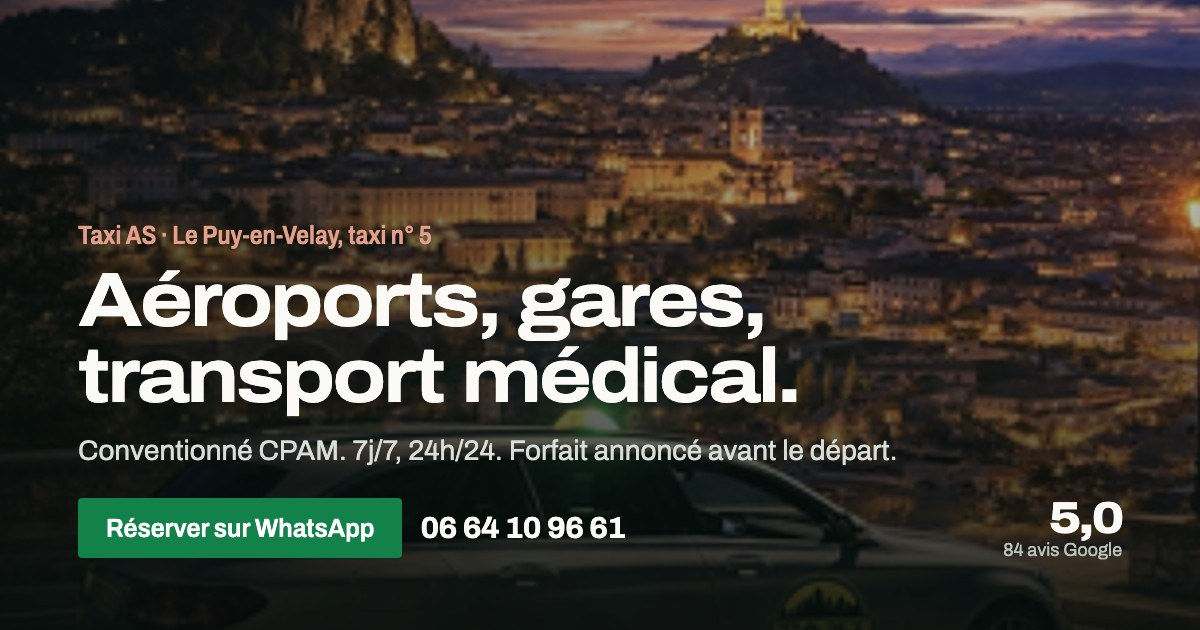
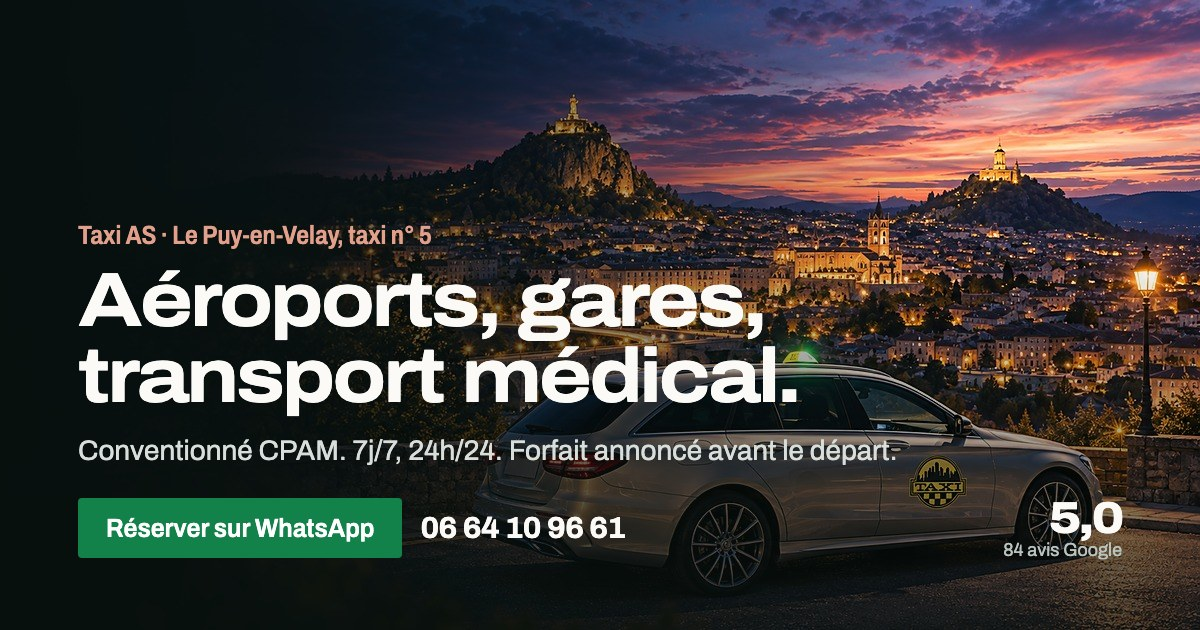
Hero pleine largeur et identité légale complète
- nouveau visuel fourni par le client (1672x941), servi en trois tailles
  via srcset : le hero occupe toute la largeur, le texte se pose sur la
  partie sombre à gauche, la voiture et les deux rochers restent visibles
- sous 58rem la photo passe en bandeau au-dessus du texte
- mentions légales complètes : Hamed Arbib, entrepreneur individuel,
  SIREN 493 529 523, SIRET 493 529 523 00026, TVA FR78493529523,
  APE 4932Z, immatriculé le 2 janvier 2007, siège rue de Chirel
- JSON-LD enrichi : legalName, vatID, taxID, foundingDate, founder
- le visuel étant une image de synthèse, les mentions légales le disent
  et le texte alternatif décrit la scène sans la présenter comme une photo
- image de partage refaite sur le nouveau visuel

diff --git a/index.html b/index.html
@@ -28,7 +28,7 @@
 <link rel="preconnect" href="https://fonts.googleapis.com">
 <link rel="preconnect" href="https://fonts.gstatic.com" crossorigin>
 <link href="https://fonts.googleapis.com/css2?family=Archivo:ital,wdth,wght@0,62..125,300..800;1,62..125,300..800&display=swap" rel="stylesheet">
-<link rel="preload" as="image" href="assets/hero-le-puy.jpg" imagesrcset="assets/hero-le-puy-960.jpg 960w, assets/hero-le-puy.jpg 1920w" imagesizes="100vw">
+<link rel="preload" as="image" href="assets/hero-le-puy-1440.jpg" imagesrcset="assets/hero-le-puy-960.jpg 900w, assets/hero-le-puy-1440.jpg 1440w, assets/hero-le-puy.jpg 2400w" imagesizes="100vw">
 <link rel="stylesheet" href="styles.css">
 </head>
 <body>
@@ -55,33 +55,37 @@
 
   <!-- ══ Hero ══ -->
   <section class="hero">
+    <img class="hero__photo"
+         src="assets/hero-le-puy-1440.jpg"
+         srcset="assets/hero-le-puy-960.jpg 900w, assets/hero-le-puy-1440.jpg 1440w, assets/hero-le-puy.jpg 2400w"
+         sizes="100vw"
+         width="2400" height="1351"
+         fetchpriority="high" decoding="async"
+         alt="Un taxi break blanc aux couleurs de Taxi AS stationné face au Puy-en-Velay illuminé au crépuscule, la statue Notre-Dame de France et la chapelle Saint-Michel d'Aiguilhe dominant la ville">
 
     <div class="hero__contenu">
-      <h1>Le taxi n°&nbsp;5 du<br>Puy-en-Velay.</h1>
-      <p class="hero__accroche">
-        Aéroports, gares, transport médical conventionné, longue distance.
-        Vous envoyez votre trajet sur WhatsApp, vous recevez le forfait et l'heure
-        de prise en charge.
-      </p>
-      <div class="hero__actions">
-        <a class="bouton bouton--whats bouton--grand" data-wa="Bonjour, je souhaite réserver un taxi au départ du Puy-en-Velay." href="https://wa.me/33664109661">
-          <svg class="ico-wa" viewBox="0 0 24 24" aria-hidden="true"><use href="#wa"/></svg>
-          Réserver sur WhatsApp
-        </a>
-        <a class="bouton bouton--clair bouton--grand" href="tel:+33664109661">Appeler le 06 64 10 96 61</a>
+      <div class="enveloppe">
+        <h1>Le taxi n°&nbsp;5 du<br>Puy-en-Velay.</h1>
+        <p class="hero__accroche">
+          Aéroports, gares, transport médical conventionné, longue distance.
+          Vous envoyez votre trajet sur WhatsApp, vous recevez le forfait et l'heure
+          de prise en charge.
+        </p>
+        <div class="hero__actions">
+          <a class="bouton bouton--whats bouton--grand" data-wa="Bonjour, je souhaite réserver un taxi au départ du Puy-en-Velay." href="https://wa.me/33664109661">
+            <svg class="ico-wa" viewBox="0 0 24 24" aria-hidden="true"><use href="#wa"/></svg>
+            Réserver sur WhatsApp
+          </a>
+          <a class="bouton bouton--clair bouton--grand" href="tel:+33664109661">Appeler le 06 64 10 96 61</a>
+        </div>
+        <ul class="preuves">
+          <li><strong>5,0</strong> sur 84 avis Google</li>
+          <li>Conventionné CPAM</li>
+          <li>7j/7, 24h/24</li>
+          <li>Station place du Breuil</li>
+        </ul>
       </div>
-      <ul class="preuves">
-        <li><strong>5,0</strong> sur 84 avis Google</li>
-        <li>Conventionné CPAM</li>
-        <li>7j/7, 24h/24</li>
-        <li>Place du Breuil, Le Puy-en-Velay</li>
-      </ul>
     </div>
-
-    <picture class="hero__photo">
-      <source media="(max-width: 46rem)" srcset="assets/hero-le-puy-960.jpg">
-      <img src="assets/hero-le-puy.jpg" alt="Le taxi de Taxi AS stationné face au Puy-en-Velay illuminé à la tombée de la nuit, avec le rocher Saint-Michel d'Aiguilhe en arrière-plan" width="1920" height="1396" fetchpriority="high" decoding="async">
-    </picture>
   </section>
 
   <!-- ══ Garanties ══ -->
@@ -388,14 +392,19 @@
   "@context": "https://schema.org",
   "@type": "TaxiService",
   "name": "Taxi AS",
+  "legalName": "Hamed Arbib",
   "alternateName": "Taxi Le Puy-en-Velay n°5",
   "description": "Taxi artisan n°5 du Puy-en-Velay, place du Breuil. Conventionné CPAM. Transferts aéroport et gare, transport médical, longue distance, taxi de nuit, 7j/7 24h/24.",
   "telephone": "+33664109661",
   "email": "astaxi.lepuy5@gmail.com",
   "url": "https://lucaszimmermann.github.io/as-taxi-43/",
   "priceRange": "€€",
-  "image": "https://lucaszimmermann.github.io/as-taxi-43/assets/hero-le-puy.jpg",
+  "image": "https://lucaszimmermann.github.io/as-taxi-43/assets/og.jpg",
   "paymentAccepted": "Carte bancaire, espèces, virement",
+  "vatID": "FR78493529523",
+  "taxID": "49352952300026",
+  "foundingDate": "2007-01-02",
+  "founder": { "@type": "Person", "name": "Hamed Arbib" },
   "address": {
     "@type": "PostalAddress",
     "streetAddress": "Place du Breuil",

diff --git a/styles.css b/styles.css
@@ -152,38 +152,43 @@ p:last-child { margin-bottom: 0; }
 @media (max-width: 62rem) { .bandeau__dispo { display: none; } .bandeau__grille { justify-content: space-between; } }
 @media (max-width: 34rem) { .bandeau__liens .bouton--whats { display: none; } }
 
-/* ── Hero : texte à gauche, photo qui déborde à droite ───── */
+/* ── Hero pleine largeur ─────────────────────────────────── */
 
 .hero {
+  position: relative;
+  isolation: isolate;
   background: var(--nuit);
   color: var(--craie);
   display: grid;
-  grid-template-columns: minmax(0, 1fr) minmax(0, 46%);
-  align-items: stretch;
-  gap: clamp(2rem, 4vw, 4.5rem);
-  padding-left: max(var(--marge), calc((100vw - var(--enveloppe)) / 2));
+  align-items: center;
+  min-height: clamp(32rem, 56vw, 45rem);
   overflow: hidden;
 }
-
-.hero__contenu { align-self: center; padding-block: clamp(3rem, 5.5vw, 4.75rem); }
-.hero__photo { position: relative; min-height: clamp(22rem, 46vw, 36rem); }
-.hero__photo img {
-  position: absolute; inset: 0;
+.hero__photo {
+  position: absolute; inset: 0; z-index: -2;
   width: 100%; height: 100%;
-  object-fit: cover; object-position: 50% 46%;
+  object-fit: cover; object-position: 62% 50%;
   display: block;
 }
-.hero__photo::after {
+.hero::after {
   content: '';
-  position: absolute; inset: 0;
-  background: linear-gradient(to right, var(--nuit) 0%, rgba(14,27,24,.35) 14%, transparent 34%);
+  position: absolute; inset: 0; z-index: -1;
+  background:
+    linear-gradient(100deg,
+      rgba(8,16,14,.95) 0%,
+      rgba(8,16,14,.91) 28%,
+      rgba(8,16,14,.72) 48%,
+      rgba(8,16,14,.30) 68%,
+      rgba(8,16,14,.12) 100%),
+    linear-gradient(to top, rgba(8,16,14,.62) 0%, transparent 38%);
 }
 
+.hero__contenu { padding-block: clamp(3.5rem, 7vw, 5.5rem); width: 100%; }
 .hero h1 { color: var(--craie); max-width: 13ch; }
 .hero__accroche {
   font-size: clamp(1.05rem, 1rem + .4vw, 1.2rem);
-  max-width: 42ch;
-  color: color-mix(in srgb, var(--craie) 82%, transparent);
+  max-width: 38ch;
+  color: color-mix(in srgb, var(--craie) 84%, transparent);
   margin-bottom: 2rem;
 }
 .hero__actions { display: flex; flex-wrap: wrap; gap: .8rem; margin-bottom: 2.3rem; }
@@ -195,31 +200,40 @@ p:last-child { margin-bottom: 0; }
   display: grid; grid-template-columns: repeat(2, minmax(0, 1fr));
   gap: .7rem 1.8rem;
   font-size: .92rem;
-  color: color-mix(in srgb, var(--craie) 80%, transparent);
-  max-width: 30rem;
+  color: color-mix(in srgb, var(--craie) 82%, transparent);
+  max-width: 26rem;
 }
 .preuves li { display: flex; align-items: baseline; gap: .45rem; }
-@media (max-width: 26rem) { .preuves { grid-template-columns: 1fr; gap: .5rem; } }
 .preuves strong {
   font-variation-settings: 'wdth' 110; font-weight: 700;
   font-size: 1.1rem; color: var(--craie); letter-spacing: -.02em;
 }
 .preuves li:first-child strong { color: var(--lave-clair); }
 
+/* Sous 58rem le texte ne tient plus sur la partie sombre : la photo
+   passe au-dessus, en bandeau, et le texte reprend le fond nuit. */
 @media (max-width: 58rem) {
   .hero {
-    grid-template-columns: 1fr;
-    padding: 0 0 clamp(2.5rem, 7vw, 3.5rem);
-    gap: clamp(1.8rem, 5vw, 2.5rem);
+    display: block;
+    min-height: 0;
+    padding-bottom: clamp(2.5rem, 7vw, 3.5rem);
   }
-  .hero__photo { order: -1; min-height: 0; aspect-ratio: 4 / 3; max-height: 58svh; }
-  .hero__contenu { padding-block: 0; }
-  .hero__photo::after {
-    background: linear-gradient(to bottom, transparent 55%, rgba(14,27,24,.55) 82%, var(--nuit) 100%);
+  .hero__photo {
+    position: static;
+    height: auto; aspect-ratio: 16 / 10;
+    max-height: 56svh;
+    object-position: 66% 50%;
   }
-  .hero__contenu { padding-inline: var(--marge); }
+  .hero::after {
+    inset: auto 0 0 0; height: 42%;
+    background: linear-gradient(to top, var(--nuit) 34%, transparent 100%);
+    pointer-events: none;
+  }
+  .hero__contenu { padding-block: clamp(1.8rem, 6vw, 2.5rem) 0; position: relative; z-index: 1; }
   .hero h1 { max-width: 16ch; }
+  .hero__accroche { max-width: none; }
 }
+@media (max-width: 26rem) { .preuves { grid-template-columns: 1fr; gap: .5rem; } }
 
 /* ── Garanties sous le hero ──────────────────────────────── */
 

diff --git a/mentions-legales.html b/mentions-legales.html
@@ -30,17 +30,19 @@
   <div class="enveloppe" style="max-width:48rem">
     <h1 style="font-size:clamp(2rem,1.4rem+2.4vw,3rem)">Mentions légales</h1>
 
-    <!-- À COMPLÉTER : SIRET, TVA et nom du gérant. Le reste est vérifié. -->
     <h2>Éditeur du site</h2>
     <p>
-      Taxi AS, entreprise individuelle de taxi.<br>
-      Stationnement : place du Breuil, 43000 Le Puy-en-Velay, France.<br>
-      SIREN : [numéro SIREN]. SIRET : [numéro SIRET]. Numéro de TVA intracommunautaire : [le cas échéant].<br>
+      Hamed Arbib, entrepreneur individuel exerçant sous l'enseigne <strong>Taxi AS</strong>.<br>
+      Siège social : 3 rue de Chirel, lotissement Coste Deferne, 43000 Le Puy-en-Velay, France.<br>
+      Stationnement : place du Breuil, 43000 Le Puy-en-Velay.<br>
+      SIREN : 493 529 523. SIRET du siège : 493 529 523 00026.<br>
+      TVA intracommunautaire : FR78 493 529 523.<br>
+      Code APE : 4932Z, transports de voyageurs par taxis. Entreprise immatriculée depuis le 2 janvier 2007.<br>
       Autorisation de stationnement (licence de taxi) n° 5, commune du Puy-en-Velay.<br>
       Taxi conventionné par l'Assurance maladie.<br>
       Téléphone : <a class="lien-texte" href="tel:+33664109661">06 64 10 96 61</a>.<br>
       Courriel : <a class="lien-texte" href="mailto:astaxi.lepuy5@gmail.com">astaxi.lepuy5@gmail.com</a>.<br>
-      Responsable de la publication : [nom du gérant].
+      Directeur de la publication : Hamed Arbib.
     </p>
 
     <h2>Hébergement</h2>
@@ -72,7 +74,8 @@
     <h2>Propriété intellectuelle</h2>
     <p>
       Les textes, la mise en page et les éléments graphiques de ce site sont la propriété de
-      Taxi AS. Toute reproduction sans autorisation est interdite.
+      Taxi AS. Toute reproduction sans autorisation est interdite. La photographie d'illustration
+      de la page d'accueil est une image de synthèse représentant un taxi devant Le Puy-en-Velay.
     </p>
 
     <p style="margin-top:2.5rem"><a class="lien-texte" href="index.html">Retour à l'accueil</a></p>

diff --git a/README.md b/README.md
@@ -43,41 +43,43 @@ Issues de l'affiche de l'entreprise et de la fiche Google :
 | Conventionnement | Conventionné CPAM |
 | Amplitude | 7j/7, 24h/24 |
 | Note Google | 5,0 sur 84 avis |
+| Exploitant | Hamed Arbib, entrepreneur individuel |
+| Siège social | 3 rue de Chirel, lotissement Coste Deferne, 43000 Le Puy-en-Velay |
+| SIREN | 493 529 523 |
+| SIRET du siège | 493 529 523 00026 |
+| TVA intracommunautaire | FR78 493 529 523 |
+| Code APE | 4932Z, transports de voyageurs par taxis |
+| Immatriculation | 2 janvier 2007 |
 | Prestations Google | limousines, assistance, taxi 7j/7, taxi de nuit, longue distance, transfert gare, transfert aéroport |
 
 ## Ce qu'il reste à compléter
 
-1. **SIREN / SIRET manquants** (`mentions-legales.html`, deux `[crochets]`).
-   Le document transmis était un bulletin de salaire de l'Hôtel Le Regina : le SIRET qui y
-   figurait est celui de l'hôtel, pas celui de l'entreprise de taxi. Rien n'en a été repris.
-   Le bon numéro se trouve sur un extrait Kbis, un avis de situation INSEE
-   (avis-situation-sirene.insee.fr) ou une facture de l'entreprise.
-2. **Nom du gérant** (`mentions-legales.html`, responsable de la publication).
-3. **URL canonique** : `https://lucaszimmermann.github.io/as-taxi-43/` apparaît dans
+1. **URL canonique** : `https://lucaszimmermann.github.io/as-taxi-43/` apparaît dans
    `index.html` (`canonical`, `og:url`, `og:image`, JSON-LD), `robots.txt` et `sitemap.xml`.
    À remplacer partout le jour où un domaine est acheté.
-4. **Réseaux sociaux** : l'affiche annonce Facebook, Snapchat et Instagram mais sans identifiant.
-   Fournir les trois URL pour les ajouter au pied de page et au JSON-LD (`sameAs`).
-5. **Distances et durées** du tableau des destinations : estimations, à confirmer par le chauffeur.
-6. **Modèle du véhicule** : la page dit « berline break » sans nommer la marque, l'affiche
-   montrant une Mercedes et les photos Google une Kia. À préciser si un seul véhicule circule.
+2. **Réseaux sociaux** : l'affiche annonce Facebook, Snapchat et Instagram mais sans
+   identifiant. Fournir les trois URL pour les ajouter au pied de page et au JSON-LD (`sameAs`).
+3. **Distances et durées** du tableau des destinations : estimations, à confirmer par le chauffeur.
+4. **Modèle du véhicule** : la page dit « berline break » sans nommer la marque. À préciser
+   si un seul véhicule circule.
 
 ## La photo du hero
 
-`assets/hero-le-puy.jpg` est un recadrage de l'affiche de l'entreprise : la partie photo
-seule, sans le texte ni le logo. La source ne fait que 616 px de large, elle a donc été
-agrandie puis ré-accentuée. Le rendu est bon à la taille où elle s'affiche, mais si le
-fichier d'origine existe (celui utilisé pour fabriquer l'affiche), le remplacer donnera un
-résultat plus net :
+`assets/hero-le-puy.jpg` et ses deux déclinaisons viennent du visuel fourni par le client
+(1672 × 941), recadré en pleine largeur derrière le texte. C'est une **image de synthèse**,
+pas une photographie du véhicule prise sur place : les mentions légales le précisent, et le
+texte alternatif décrit la scène sans la présenter comme un reportage.
 
-```bash
-# remplacer les deux tailles, mêmes noms de fichiers
-assets/hero-le-puy.jpg       # 1920 px de large
-assets/hero-le-puy-960.jpg   #  960 px de large, pour mobile
+Trois tailles sont servies par `srcset`, le navigateur choisit :
+
+```
+assets/hero-le-puy.jpg        2400 px   grands écrans et affichages retina
+assets/hero-le-puy-1440.jpg   1440 px   desktop courant
+assets/hero-le-puy-960.jpg     900 px   mobile
 ```
 
-Le texte alternatif de l'image décrit la scène pour les lecteurs d'écran et le
-référencement, le mettre à jour si la photo change.
+Pour changer la photo, remplacer les trois fichiers en gardant les mêmes noms, puis mettre
+à jour le texte alternatif dans `index.html` et l'image de partage `assets/og.jpg`.
 
 ## Structure
 
@@ -86,7 +88,7 @@ index.html            page principale
 mentions-legales.html page légale
 styles.css            toute la mise en forme
 script.js             liens WhatsApp et composition du message
-assets/hero-le-puy*.jpg  photo du hero (deux tailles)
+assets/hero-le-puy*.jpg  photo du hero (trois tailles)
 assets/og.jpg         image de partage 1200×630
 assets/favicon.svg    icône
 robots.txt sitemap.xml
